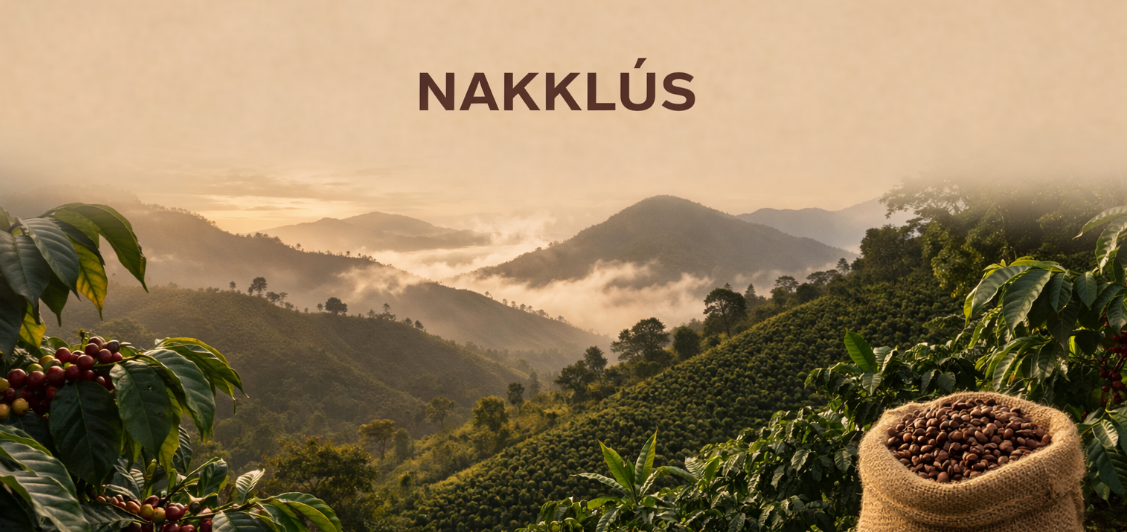
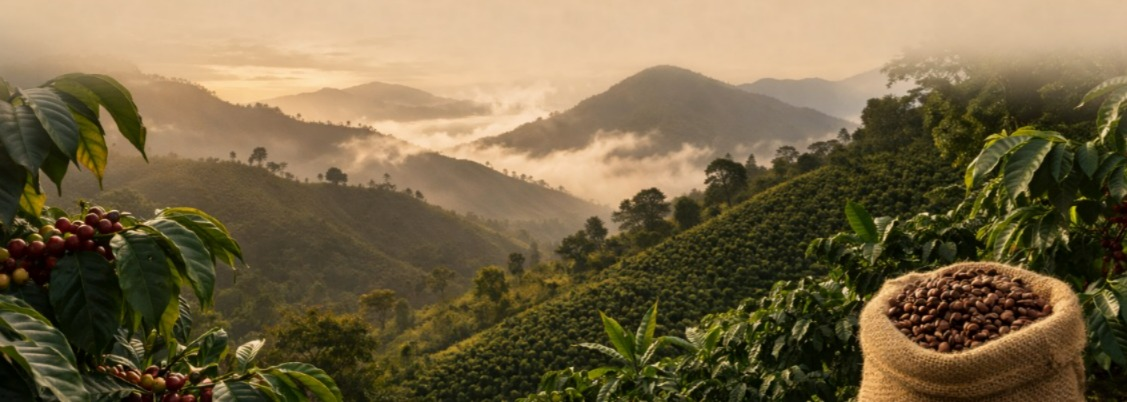
hola

diff --git a/css/styles.css b/css/styles.css
@@ -184,7 +184,7 @@ nav a {
 }
 .hero {
   height: 100vh; /* ocupa solo la pantalla */
-  background-image: url('tu-imagen.jpg');
+  background-image: url('img/1034.png');
   background-size: cover;
   background-position: center;
   background-repeat: no-repeat;
